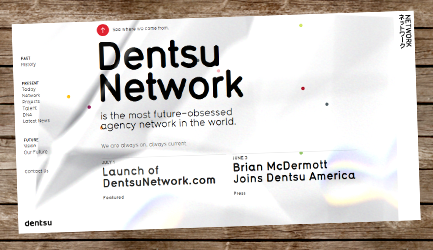
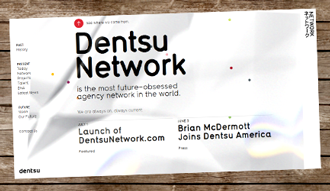
Refactored a lot of stuff - trying to use pure canvas instead of DOM elements for all physics stuffs

diff --git a/dev/js/mylibs/epcb2dSpacies.js b/dev/js/mylibs/epcb2dSpacies.js
@@ -12,6 +12,14 @@ Spacies.__constructor = function(canvas) {
     this._lastClick = 0;
     this._mouseClicked = false;
     this._dbgDraw = new b2SpaceyDebugDraw();
+    this._sat = null;
+    this._home = null;
+    this._sobesign = null;
+    this._orbitsign = null;
+    this._eclipsesign = null;
+    this._fivegumsign = null;
+    this._sonicsign = null;
+    this._dentsusign = null;
     this.satbounds = 60;
     this.satdir = 1;
     
@@ -102,6 +110,31 @@ Spacies.prototype.createWorld = function(){
     wallBd.position.Set(32, -18.0);
     this._wallBottom = m_world.CreateBody(wallBd);
     this._wallBottom.CreateFixture2(wall); 
+    
+    this._sat = new Image();
+    this._sat.src = "img/SatelliteOnly.png";
+    
+    this._home = new Image();
+    this._home.src = "img/down.png";
+    
+    this._sobesign = new Image();
+    this._sobesign.src = "img/sobe-sign.png?v2";
+    
+    this._orbitsign = new Image();
+    this._orbitsign.src = "img/orbit-sign.png?v2";
+    
+    this._eclipsesign = new Image();
+    this._eclipsesign.src = "img/eclipse-sign.png?v2";
+    
+    this._fivegumsign = new Image();
+    this._fivegumsign.src = "img/5gum-sign.png?v2";
+    
+    this._sonicsign = new Image();
+    this._sonicsign.src = "img/sonic-sign.png?v2";
+    
+    this._dentsusign = new Image();
+    this._dentsusign.src = "img/dentsu-sign.png?v2";
+    
     return m_world;
 };
 
@@ -146,7 +179,6 @@ Spacies.prototype.step = function(delta) {
         return;
         
     this._world.ClearForces();
-//    this.twitterAnchor.ApplyForce(new b2Vec2(1000,0), this.twitterAnchor.GetPosition());
     var pos = this.satAnchor.GetPosition();
     if(this.satdir > 0) {
       if(pos.x > this.satbounds) {
@@ -161,10 +193,10 @@ Spacies.prototype.step = function(delta) {
     }
     this.satAnchor.SetPosition(new b2Vec2(pos.x+0.01 * this.satdir, pos.y));
     
-    jQuery("#sat")
-      .css("position", "absolute")
-      .css("left", (pos.x*this._dbgDraw.m_drawScale)- (this._dbgDraw.m_drawScale)-72  + "px")
-      .css("top",  pos.y*this._dbgDraw.m_drawScale-8040 + ((675-EPC.getWindowHeight())*1.6) + EPC.getBgOffset() + "px");
+//    jQuery("#sat")
+//      .css("position", "absolute")
+//      .css("left", (pos.x*this._dbgDraw.m_drawScale)- (this._dbgDraw.m_drawScale)-72  + "px")
+//      .css("top",  pos.y*this._dbgDraw.m_drawScale-8040 + ((675-EPC.getWindowHeight())*1.6) + EPC.getBgOffset() + "px");
     
     var delta = (typeof delta == "undefined") ? 1/this._fps : delta;
     
@@ -213,13 +245,13 @@ Spacies.prototype._updateMouseInteraction = function() {
       this._mouseClicked = false;
       body = getBodyAtPoint(this._world, this._mousePoint);
       if(body) {
-        switch(body.m_userData) {
+        switch(body.m_userData[0]) {
           case "satAnchor":
             EPC.initHome();
             break;
             
           default:
-            jQuery("." + body.m_userData).click();
+            jQuery("." + body.m_userData[0]).click();
         }
       }
     }
@@ -314,26 +346,38 @@ b2SpaceyDebugDraw.prototype.DrawSolidPolygon=function(vertices,numVertices,c, bo
 //  this.m_sprite.stroke();
 //  this.m_sprite.closePath();
 
-  var rotationStyle = 'rotate(' + (-body.m_xf.GetAngle() * 57.2957795) + 'deg)';
-  var sprite = jQuery("#" + body.m_userData);
-  jQuery(sprite)
-    .css("position", "absolute")
-    .css("-moz-transform", rotationStyle)
-    .css("-webkit-transform", rotationStyle)
-    .css("transform", rotationStyle)
-    .css("-o-transform", rotationStyle)    
-    .css("-ms-transform", rotationStyle)
-    .css("filter", EPC.ieRotate(-body.m_xf.GetAngle()))
-    .css("zoom", 1)    
-    .css("left", (body.m_xf.position.x*this.m_drawScale)- (this.m_drawScale)-10  + "px")
-    .css("top",  this.Y(body.m_xf.position.y*this.m_drawScale)-570 + EPC.getBgOffset() - 7250 + ((900 - EPC.getWindowHeight())) + "px");
+  if(body.m_userData == undefined) return;
+  if(body.m_userData[1] == null) return;
+  var w = body.m_userData[1].width;
+  var h = body.m_userData[1].height;
+  var x = body.m_xf.position.x*this.m_drawScale;
+  var y = this.Y(body.m_xf.position.y*this.m_drawScale);
+  this.m_sprite.translate(x, y);
+  this.m_sprite.rotate(-body.m_xf.GetAngle());
+  this.m_sprite.drawImage(body.m_userData[1],-w/2, -h/2, w, h);
+  this.m_sprite.rotate(body.m_xf.GetAngle());
+  this.m_sprite.translate(-x, -y);
+  
+//  var rotationStyle = 'rotate(' + (-body.m_xf.GetAngle() * 57.2957795) + 'deg)';
+//  var sprite = jQuery("#" + body.m_userData);
+//  jQuery(sprite)
+//    .css("position", "absolute")
+//    .css("-moz-transform", rotationStyle)
+//    .css("-webkit-transform", rotationStyle)
+//    .css("transform", rotationStyle)
+//    .css("-o-transform", rotationStyle)    
+//    .css("-ms-transform", rotationStyle)
+//    .css("filter", EPC.ieRotate(-body.m_xf.GetAngle()))
+//    .css("zoom", 1)    
+//    .css("left", (body.m_xf.position.x*this.m_drawScale)- (this.m_drawScale)-10  + "px")
+//    .css("top",  this.Y(body.m_xf.position.y*this.m_drawScale)-570 + EPC.getBgOffset() - 7250 + ((900 - EPC.getWindowHeight())) + "px");
 
       
-  if(jQuery(sprite).css("top") > EPC.getWindowHeight()) {
-    jQuery(sprite).hide();
-  } else {
-    jQuery(sprite).show();
-  }  
+//  if(jQuery(sprite).css("top") > EPC.getWindowHeight()) {
+//    jQuery(sprite).hide();
+//  } else {
+//    jQuery(sprite).show();
+//  }  
 }
 
 b2SpaceyDebugDraw.prototype.DrawSegment=function(a,b,c, mouseDown){

diff --git a/dev/js/mylibs/epc.js b/dev/js/mylibs/epc.js
@@ -61,7 +61,7 @@ var EPC = (function () {
       }, 3000);
  
       jQuery("#homecanvas").animate({
-        marginTop: "-=8000px"
+        top: "-=8000px"
       },
       {
         duration: 6000,
@@ -117,7 +117,7 @@ var EPC = (function () {
         
       jQuery("#workcanvas")
         .attr("height", jQuery(window).height())
-//        .attr("width", jQuery(window).width())
+        .attr("width", jQuery(window).width())
         .hide();
         
       jQuery("#musiccanvas")
@@ -136,39 +136,32 @@ var EPC = (function () {
     },
     
     initWorkStuff : function() {
+      jQuery("#wrapper").css("overflow", "visible");
+      
       if(!EPC.isFooterOn()) {
         setTimeout(function() {
           jQuery("#workcanvas").show();
           jQuery("#homecanvas").hide();
-          jQuery(".worksprite").show();
           homerunner.pause();
           workrunner.draw();
           workrunner.resume();        
         }, 3000);
 
-        jQuery("#homecanvas").animate({
-          marginTop: "+=8000px"
-        },
+        jQuery("#homecanvas, #workcanvas").animate({
+          top: "+=8000px"
+        }, 
         {
           duration: 6000,
           easing: "easeInOutExpo"
         })
 
-        jQuery("#content").animate({
-          backgroundPosition: "(0 0)"
-        }, {
-          duration: 6000,
-          easing: "easeInOutExpo",
-          complete: function() {
-          }
-        });
-
-        jQuery("body").animate({
+        jQuery("#content, body").animate({
           backgroundPosition: "(0 0)"
         }, {
           duration: 6000,
           easing: "easeInOutExpo"
-        });              
+        });
+
       } else {
         setTimeout(function() {
           musicrunner.pause();
@@ -183,7 +176,6 @@ var EPC = (function () {
           easing: "easeInOutExpo",
           step : function(a, b) {
             var off = b.start-b.now;
-            console.log("step: " + off);
             EPC.setFooterOffset(off);
           },
           complete: function() {
@@ -195,7 +187,6 @@ var EPC = (function () {
         setTimeout(function() {
           jQuery("#workcanvas").show();
           jQuery("#homecanvas").hide();
-          jQuery(".worksprite").show();
           homerunner.pause();
           workrunner.draw();
           workrunner.resume();        
@@ -210,14 +201,22 @@ var EPC = (function () {
         }, 3000);
 
         jQuery("#homecanvas").animate({
-          marginTop: "+=16000px"
+          top: "+=16000px"
         },
         {
           duration: 8000,
           easing: "easeInOutExpo"
         })
 
-        jQuery("#content").animate({
+        jQuery("#workcanvas").animate({
+          top: "+=8000px"
+        },
+        {
+          duration: 8000,
+          easing: "easeInOutExpo"
+        })
+
+        jQuery("#content,body").animate({
           backgroundPosition: "(0 0)"
         }, {
           duration: 8000,
@@ -225,13 +224,6 @@ var EPC = (function () {
           complete: function() {
           }
         });
-
-        jQuery("body").animate({
-          backgroundPosition: "(0 0)"
-        }, {
-          duration: 8000,
-          easing: "easeInOutExpo"
-        });                      
       }
     },
 
@@ -262,7 +254,7 @@ var EPC = (function () {
         },100);
 
         jQuery("#homecanvas").animate({
-          marginTop: "+=8000px"
+          top: "+=8000px"
         },
         {
           duration: 6000,
@@ -285,8 +277,8 @@ var EPC = (function () {
           }
         });
       } else {
-      jQuery("#homecanvas").animate({
-        marginTop: "-=8000px"
+      jQuery("#homecanvas,#workcanvas").animate({
+        top: "-=8000px"
       },
       {
         duration: 6000,

diff --git a/dev/index.html b/dev/index.html
@@ -38,14 +38,14 @@
         <a href="http://www.linkedin.com/in/delorenj"><img id="linkedin" class="homesprite cloudlink sprite hidden" src="img/linkedin.png" /></a>
         <a href="https://plus.google.com/108059363375872918083"><img id="gplus" class="homesprite cloudlink sprite hidden" src="img/gplus.png" /></a>
         <a href="http://www.jacksnaps.com"><img id="jacksnaps" class="homesprite cloudlink sprite hidden" src="img/jacksnaps.png" /></a>
-        <img id="satAnchor" class="worksprite sprite" src="img/down.png" />
-        <img id="sobe-sign" class="worksprite sprite floaty-sign" src="img/sobe-sign.png" />
-        <img id="orbit-sign" class="worksprite sprite floaty-sign" src="img/orbit-sign.png" />
-        <img id="eclipse-sign" class="worksprite sprite floaty-sign" src="img/eclipse-sign.png" />
-        <img id="fivegum-sign" class="worksprite sprite floaty-sign" src="img/5gum-sign.png" />
-        <img id="sonic-sign" class="worksprite sprite floaty-sign" src="img/sonic-sign.png" />
-        <img id="dentsu-sign" class="worksprite sprite floaty-sign" src="img/dentsu-sign.png" />
-        <img id="sat" class="worksprite sprite" src="img/SatelliteOnly.png" />
+        <img id="satAnchor" class="worksprite sprite hidden" src="img/down.png" />
+        <img id="sobe-sign" class="worksprite sprite floaty-sign hidden" src="img/sobe-sign.png" />
+        <img id="orbit-sign" class="worksprite sprite floaty-sign hidden" src="img/orbit-sign.png" />
+        <img id="eclipse-sign" class="worksprite sprite floaty-sign hidden" src="img/eclipse-sign.png" />
+        <img id="fivegum-sign" class="worksprite sprite floaty-sign hidden" src="img/5gum-sign.png" />
+        <img id="sonic-sign" class="worksprite sprite floaty-sign hidden" src="img/sonic-sign.png" />
+        <img id="dentsu-sign" class="worksprite sprite floaty-sign hidden" src="img/dentsu-sign.png" />
+        <img id="sat" class="worksprite sprite hidden" src="img/SatelliteOnly.png" />
         <div id="flash"></div>
       </div>
       <a class="sb sobe-sign" title="SoBe's Try A New Look Kiosk and iPhone App" href="img/sobe_tryeverything.jpg"></a>

diff --git a/dev/js/mylibs/epcSpacies.js b/dev/js/mylibs/epcSpacies.js
@@ -39,9 +39,8 @@ Spacies.prototype.createWorld = function() {
     function createRope(x, y, w, h, numJoints, delta, div) {
       w = w || 1.7;
       h = h || 1.7;
-//      y = y - (675 - jQuery(window).height())/16
       var anchor = createAnchor(x,y);
-      if(div == "satAnchor") {
+      if(div[0] == "satAnchor") {
         that.satAnchor = anchor;
       }
       //var xOffset = (Math.random() - 0.5) * 100
@@ -66,8 +65,8 @@ Spacies.prototype.createWorld = function() {
     }
     
     function spawnFloatySign(x, y, sign_id) {
-      var dbgWidth = jQuery("#"+sign_id).width()/that._dbgDraw.m_drawScale/2;
-      var dbgHeight = jQuery("#"+sign_id).height()/that._dbgDraw.m_drawScale/2;
+      var dbgWidth = 330/that._dbgDraw.m_drawScale/2;
+      var dbgHeight = 191/that._dbgDraw.m_drawScale/2;
       var sign = spawn(x, y, dbgWidth, dbgHeight, Math.random()/2);
       sign.m_userData = sign_id;
       return sign;
@@ -75,14 +74,14 @@ Spacies.prototype.createWorld = function() {
     
     createRope(28,29,
                1.7,1.7,
-               10,0.1,"satAnchor");
+               10,0.1,["satAnchor", this._home]);
 
-    spawnFloatySign(17, 12, "sobe-sign");
-    spawnFloatySign(40, 18, "orbit-sign");
-    spawnFloatySign(48, 25,"eclipse-sign");
-    spawnFloatySign(50, 30, "fivegum-sign");
-    spawnFloatySign(25, 35, "sonic-sign");
-    spawnFloatySign(35, 13, "dentsu-sign");
+    spawnFloatySign(17, 12, ["sobe-sign", this._sobesign]);
+    spawnFloatySign(40, 18, ["orbit-sign", this._orbitsign]);
+    spawnFloatySign(48, 25, ["eclipse-sign", this._eclipsesign]);
+    spawnFloatySign(50, 30, ["fivegum-sign", this._fivegumsign]);
+    spawnFloatySign(25, 35, ["sonic-sign", this._sonicsign]);
+    spawnFloatySign(35, 13, ["dentsu-sign", this._dentsusign]);
     
     return world;
 };
@@ -97,7 +96,8 @@ Spacies.prototype.draw = function() {
   if(this._world) {
       this._world.SetDebugDraw(this._dbgDraw);
       this._world.DrawDebugData();
-  }          
+  }
+  
 //    c.fillStyle = "black";
 //    if(this._paused) {
 //        c.fillText("paused", 5, 15);

diff --git a/dev/js/mylibs/epcDanglies.js b/dev/js/mylibs/epcDanglies.js
@@ -153,7 +153,7 @@ Danglies.prototype.draw = function() {
   }          
   if(EPC.getBgOffset() > 0) {
     jQuery("img[id*='cloud']").each(function() {
-      if(jQuery(this).css("top") > EPC.getWindowHeight()) {
+      if(parseInt(jQuery(this).css("top").split("px")[0]) > EPC.getWindowHeight()) {        
         jQuery(this).hide();
       } else {
         jQuery(this).show()
@@ -166,7 +166,7 @@ Danglies.prototype.draw = function() {
 
   if(EPC.getBgOffset() < 0) {    
     jQuery("img[id*='cloud']").each(function() {
-      if(jQuery(this).css("top") < 0) {
+      if(parseInt(jQuery(this).css("top").split("px")[0]) < 0) {
         jQuery(this).hide();
       } else {
         jQuery(this)

diff --git a/dev/css/style.css b/dev/css/style.css
@@ -321,7 +321,7 @@ body {
 
 #workcanvas {
   position: relative;
-  top: 0;
+  top: -8000px;
   left: 0;
   margin: 0 auto;
   z-index: 100;
